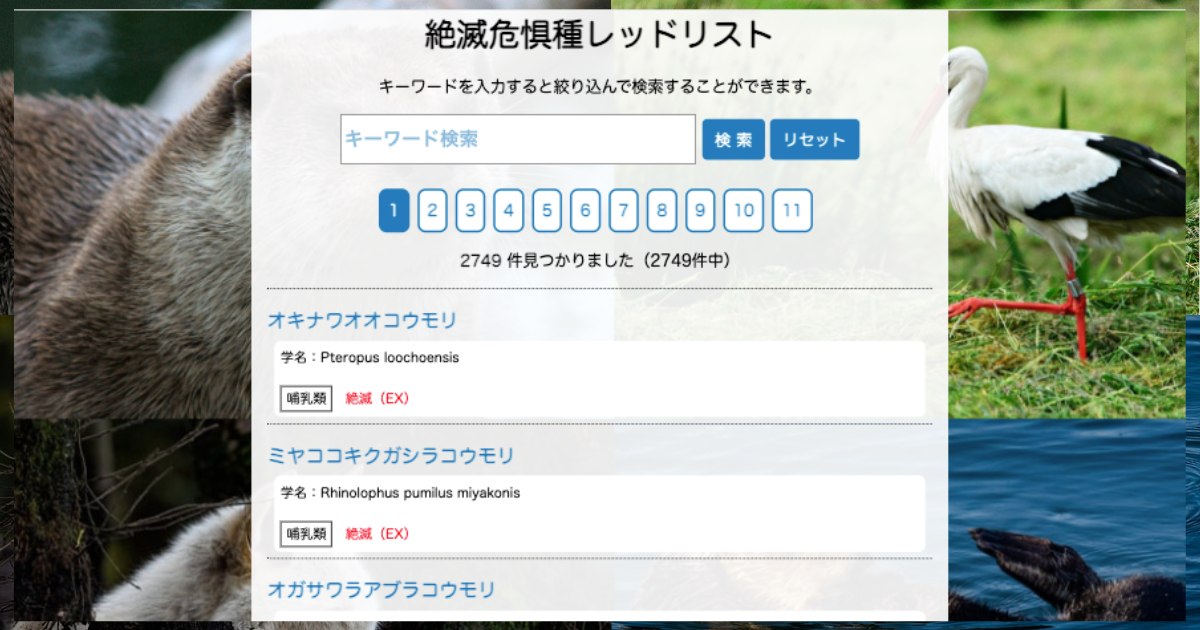
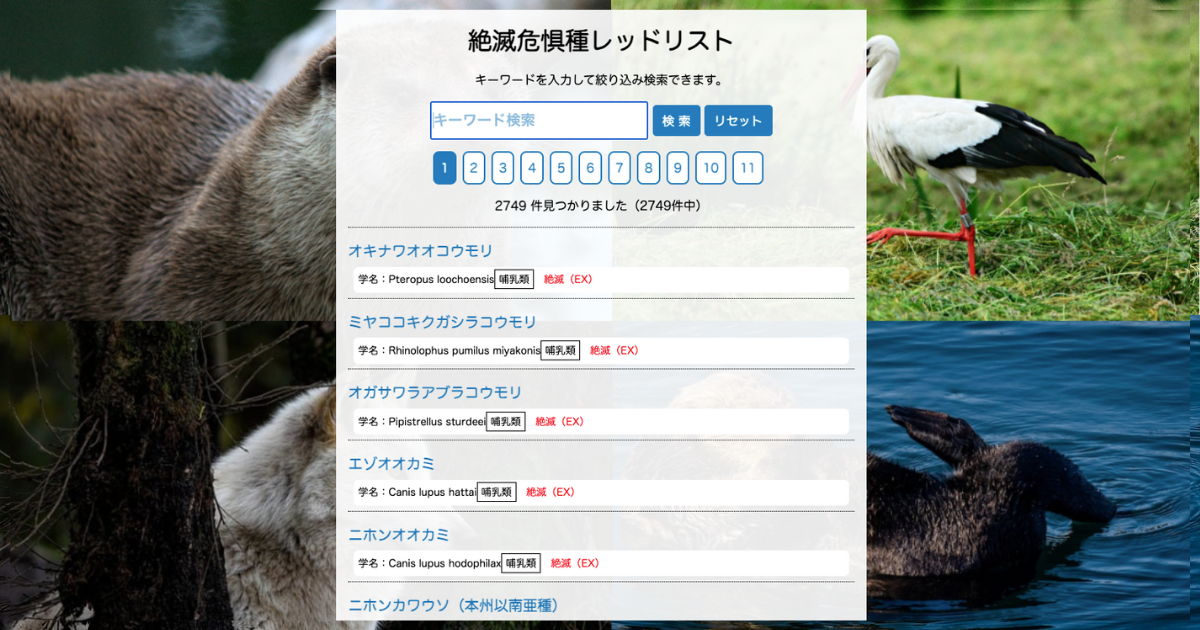
image changed

diff --git a/index.html b/index.html
@@ -49,6 +49,7 @@
 
     .container{
       width: 100%;
+      height: 150%;
       max-width: 700px;
       background: rgba(255,255,255, 0.9);
       padding: 0;
@@ -57,7 +58,7 @@
 
     h1{
       margin: 0;
-      padding: 0;
+      padding: 20px 0 0 0;
     }
     
     input {
@@ -65,7 +66,8 @@
       font-size: 1.2em;
       font-weight: bolder;
       height: 45px;
-      width: 50%;
+      width: 40%;
+      margin-bottom: 15px;
     }
     input::-webkit-input-placeholder {
       color: rgba(0, 119, 184, 0.5);
@@ -79,6 +81,7 @@
       padding: .8em;
       cursor: pointer;
       border-radius: .3em;
+
     }
     
     #result {
@@ -157,15 +160,19 @@
       font-weight: bold;
     }
 
+    @media screen and (min-width: 768px){
+      br{display:none;}
+    }
+
   </style>
 </head>
 
 <body>
   <center>
     <div class="container">
-    <h1 class="post_title">絶滅危惧種レッドリスト</h1>
+    <h1 class="post_title">絶滅危惧種<br>レッドリスト</h1>
 
-    <p>キーワードを入力すると絞り込んで検索することができます。</p>
+    <p>キーワードを入力して絞り込み検索できます。</p>
 
     <input type="text" name="text1" id="text" size="15" autocomplete="off" autofocus placeholder="キーワード検索" />  <span id="exp" class="search">検 索</span>  <span id="exp" class="reset">リセット</span><br><br>
 
